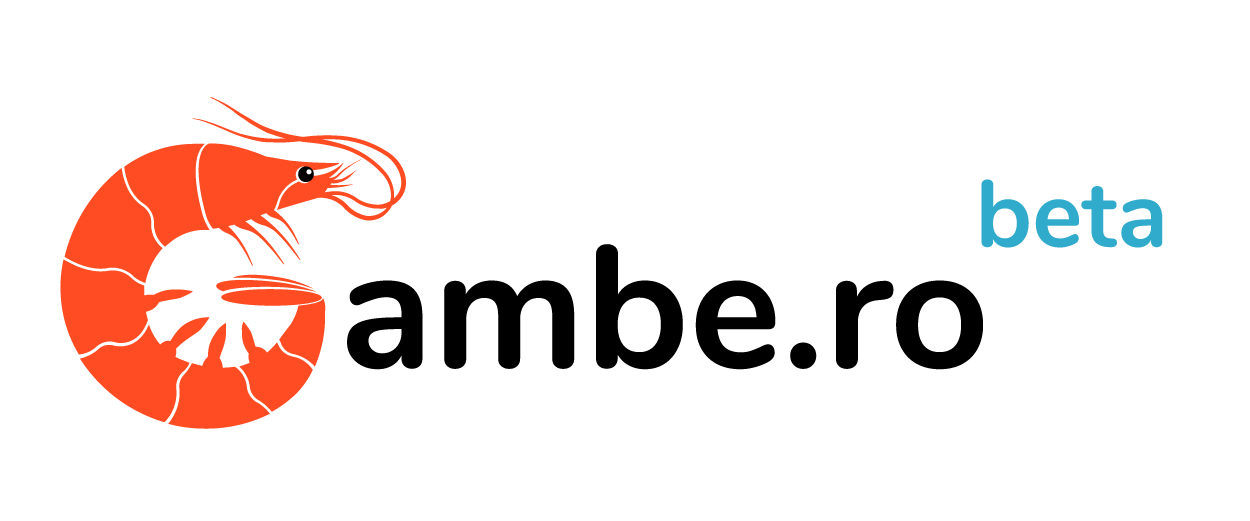
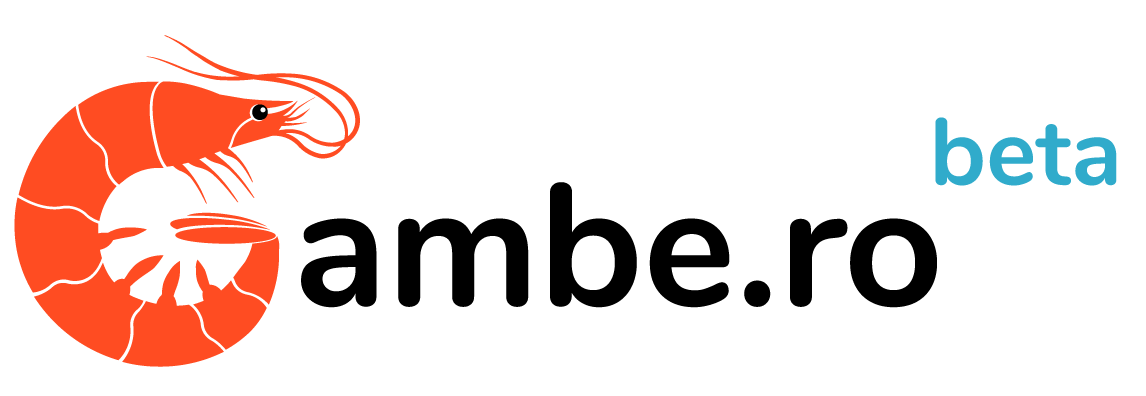
review week 2 (#47)
* Small fixes (#41)

* Fix typo

* Remove Apple icons

* cropped logo (#42)

* using showing_user to generate opengraph preview (#43)

* Added tags "ricerca" and "strumenti" (#44)

* Added tags "ricerca" and "strumenti"

* Corrected descriptions according to the review.

* removed google analytics

* added condition on pushover (#45)

* Translation various fixes (#46)

* Translation various fixes

* Fixed copy-paste error

* Fixed hardcoded strings

Changed region(s): [[0.0, 0.1212, 0.8246, 0.9394], [0.7635, 0.303, 0.9773, 0.4848]]

diff --git a/app/models/comment.rb b/app/models/comment.rb
@@ -325,9 +325,9 @@ class Comment < ActiveRecord::Base
     if self.is_moderated?
       I18n.t('models.comment.threadremovedby', :modoname => "#{self.moderation.try(:moderator).try(:username).to_s}", :modreason => "#{(self.moderation.try(:reason) || "No reason given")}")
     elsif self.user.is_banned?
-      "Comment from banned user removed"
+      "Commento rimosso per utente bannato"
     else
-      "Comment removed by author"
+      "Commento rimosso dall'autore"
     end
   end
 

diff --git a/config/application.rb b/config/application.rb
@@ -27,6 +27,7 @@ module Lobsters
     config.action_controller.action_on_unpermitted_parameters = :raise
 
     config.active_record.raise_in_transactional_callbacks = true
+    config.action_view.raise_on_missing_translations=true
 
     config.cache_store = :file_store, "/tmp/"
 
